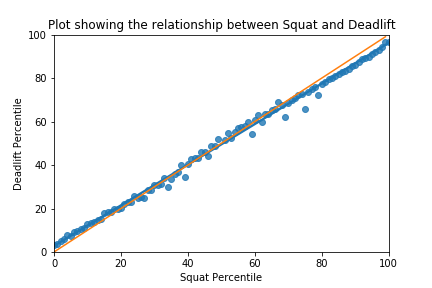
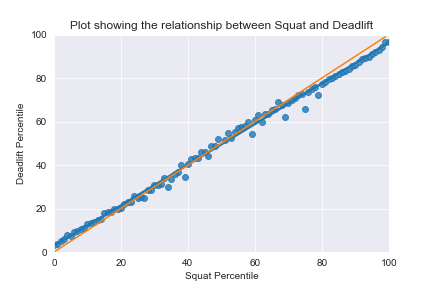
Added plot styling

diff --git a/InverseCorrelations.py b/InverseCorrelations.py
@@ -13,7 +13,7 @@ import pandas as pd
 import seaborn as sns
 import matplotlib.pyplot as plt
 from scipy.stats import rankdata as rank
-import math
+import numpy as np
 
 sns.set_style('darkgrid')
 
